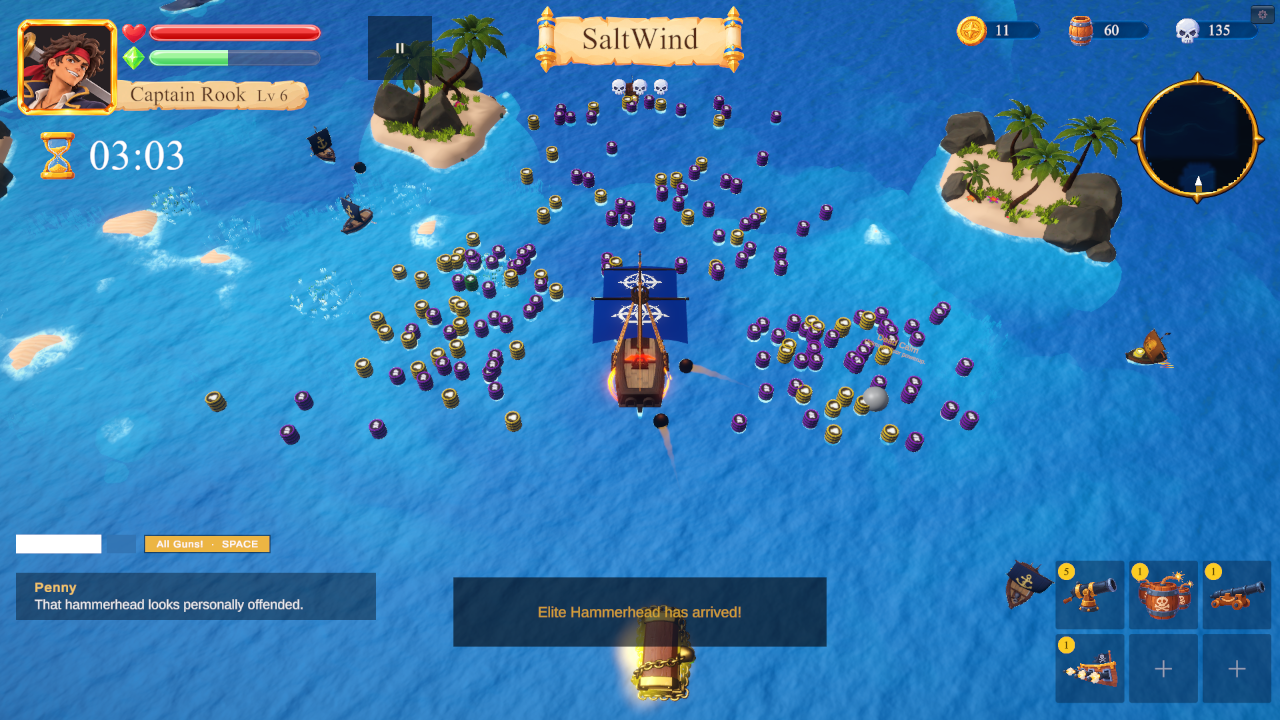
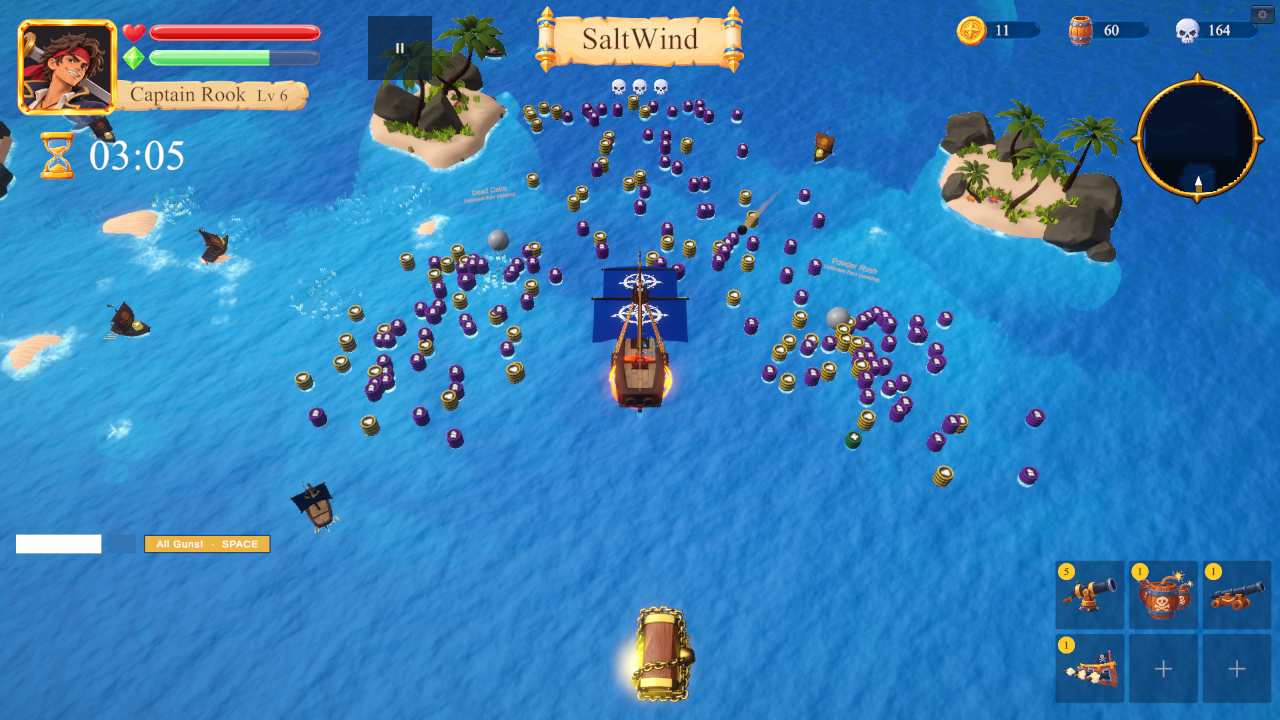
Playtest: owner answers (no beacon, elite health bars, Rum for every minute)
- The Treasury Beacon is removed when the boss rises on its own (no marker, hints, guide or skylight).
- Health bars on the boss, minibosses and every elite.
- Rum pays every qualifying minute to 15:00 and every overtime minute (caps removed).
- Play check rerun: no beacon, elite bars shown, 0 console errors.

diff --git a/Pirate Game Unity/Assets/_Game/V4/Runtime/Stage/BeaconDiscovery.cs b/Pirate Game Unity/Assets/_Game/V4/Runtime/Stage/BeaconDiscovery.cs
@@ -117,7 +117,10 @@ namespace RoguePirates.V4.Stage
             for (var i = 0; i < revealCount; i++) _revealedChestIndices.Add(candidates[i].index);
         }
 
-        public Vector3? BeaconPosition => _layout != null ? _layout.bossBeacon : (Vector3?)null;
+        public Vector3? BeaconPosition => _layout != null && HasBeacon ? _layout.bossBeacon : (Vector3?)null;
+
+        /// <summary>The stage has a Treasury Beacon (the playtest removes it when the boss rises on its own).</summary>
+        bool HasBeacon => _layout?.pois != null && _layout.pois.Exists(p => p.type == POIType.BossBeacon);
 
         /// <summary>V3 GetBeaconBearingDegrees (compass bearing, 0 = +Z).</summary>
         public float BeaconBearingDegrees(Vector3 from)
@@ -149,7 +152,7 @@ namespace RoguePirates.V4.Stage
 
         void UpdateBeaconTimeline(Vector3 playerPos, float minute)
         {
-            if (_layout == null) return;
+            if (_layout == null || !HasBeacon) return; // no beacon: no hints, no marker, no guide
             var c = C;
             var sectorMinute = (c != null ? c.beaconDirectionHintSeconds : 420f) / 60f;
             var exactMinute = (c != null ? c.beaconExactMarkerSeconds : 540f) / 60f;

diff --git a/Pirate Game Unity/Assets/_Game/V4/Presentation/Effects/EnemyViewPresenter.cs b/Pirate Game Unity/Assets/_Game/V4/Presentation/Effects/EnemyViewPresenter.cs
@@ -98,8 +98,8 @@ namespace RoguePirates.V4.Presentation.Effects
         public Transform AttachHealthBar(EnemyDefinition def, Transform view, bool elite)
         {
             if (view == null || _pools == null || !_pools.Has(HealthBarKey)) return null;
-            // Playtest (2 Oct): health bars only on bosses and minibosses; ordinary enemies and elites show none.
-            if (def == null || (!def.isBoss && !def.isMiniboss)) return null;
+            // Playtest (2 Oct, owner): health bars on the boss, minibosses and elites; ordinary enemies show none.
+            if (def == null || (!def.isBoss && !def.isMiniboss && !elite)) return null;
             var go = _pools.Acquire(HealthBarKey, view.position, Quaternion.identity);
             if (go == null) return null;
             var bar = go.GetComponent<WorldHealthBar>();

diff --git a/Pirate Game Unity/Assets/_Game/V4/Runtime/Stage/StageContentModule.cs b/Pirate Game Unity/Assets/_Game/V4/Runtime/Stage/StageContentModule.cs
@@ -108,6 +108,8 @@ namespace RoguePirates.V4.Stage
             ResetState();
             // Demo: an open sea, no points of interest (the beacon discovery shares this layout, so it sees none either).
             if (DemoMode.NoPointsOfInterest && layout?.pois != null) layout.pois.Clear();
+            // Playtest (2 Oct, owner): with the boss rising on its own (14:00) there is no Treasury Beacon on the stage.
+            if (DemoMode.AutoBossSeconds > 0f && layout?.pois != null) layout.pois.RemoveAll(p => p.type == POIType.BossBeacon);
             _layout = layout;
             var n = layout?.pois != null ? layout.pois.Count : 0;
             _used = new bool[n];

diff --git a/plan/playtest/NOTES.md b/plan/playtest/NOTES.md
@@ -91,3 +91,12 @@ Questions for you:
    Keep it as a "boss comes here" marker, let it call the boss early from 13:00, or remove it?
 2. Elites (the 3:00 Hammerhead, the 10:00 Kraken) have no health bar now. Should they?
 3. Rum for minutes: capped at 10 (as before), or pay for all 15?
+
+## Your answers (2 Oct)
+
+1. Beacon: removed. With the boss rising on its own at 14:00, the stage has no Treasury Beacon (no marker, minimap hint,
+   guide arrow or skylight).
+2. Health bars: on the boss, the minibosses and every elite (the 3:00 Hammerhead, the 10:00 Kraken, the 8:00 Hammerhead
+   and the elites the kill band adds); ordinary enemies still have none.
+3. Rum: pays for every qualifying minute to 15:00 (2 each, up to 30) and every overtime minute after it (3 each, the
+   old 15-Rum overtime cap removed).
